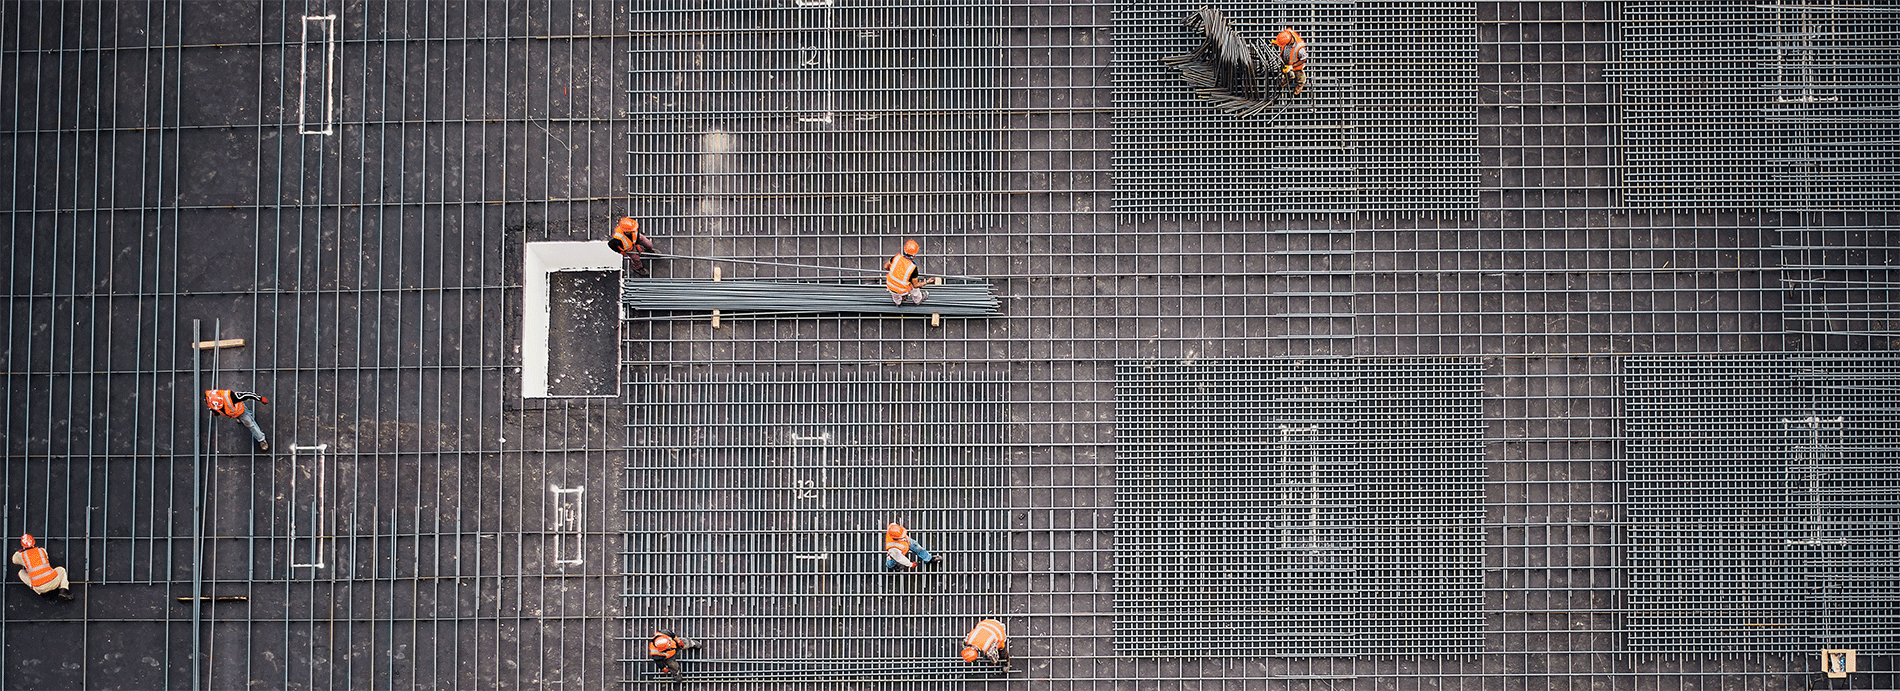
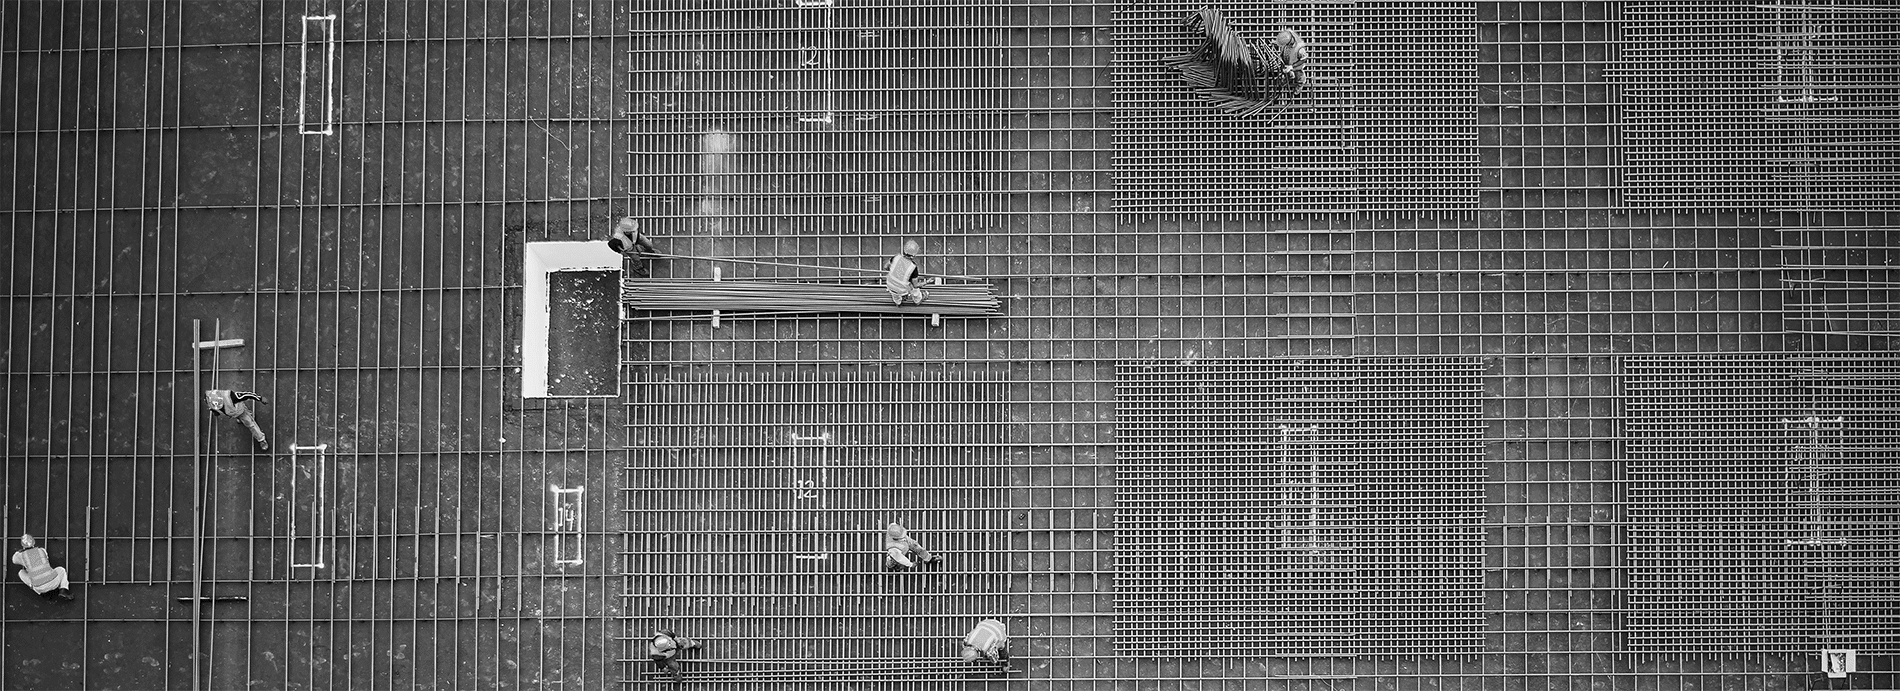
removing TODO from rico introduction blogpost change date of blogpost turn header image into b&w

diff --git a/_posts/2019-07-25-introducing-rico.md b/_posts/2019-07-25-introducing-rico.md
@@ -4,7 +4,7 @@ title:  'Introducing Rico'
 author: markus
 featuredImage: 
 excerpt: 'Introduction to Rico, the application framework.'
-permalink: '/rico/2019/07/16/introducing-rico.html'
+permalink: '/rico/2019/07/25/introducing-rico.html'
 categories: [Java, Jakarta EE, Java EE, Spring, Rico, Remoting, Monitoring, Security, Angular, WebComponents, JavaFX, Projector]
 header:
   text: Introducing <span class="my-karakun">Rico<span>
@@ -30,12 +30,10 @@ It provides modules for common use cases that extend the range of functions you 
  
 These are in regard to core functionalities:
 
-* _Data Access_ -
-* _Logging_ - 
-* _Monitoring_ -
-* _Security_ - 
-
-(**TODO:** some word to each module)
+* _Data Access_ - Rico provides helpers to enhance usage of your applications data layer. This includes using an event system for entity mutation to solve common problems in distributed systems. Since Rico builds on top of established frameworks (Spring Data or JPA) it integrates smoothly in your data layer.
+* _Logging_ - Based on SLF4J, Rico provides logging features to serve typical uses-cases including distributed logging (painless GreyLog integration). Next to this, accessing the log entries is simplified by an In-Memory pipe of recent logentries and ready-to-use widgets to visualize logs (local & remote).
+* _Monitoring_ - As one of the first frameworks, Rico implemented the [new ServerTiming standard](/java/rico/2019/01/15/rico-server-timing.html) and is prepared for distributed tracing.
+* _Security_ - Generic interface to serve typical security use-cases (e.g. login, logout, session-management, ...) with integration of KeyCloak (popular access and identity management solution) as a first implementation. All security features are automatically integrated into Rico's Remoting / HTTP layers.
 
 Providing a user interface is more or less required for almost every solution today - be it an admin UI or a UI to give users access the needed functionality. Rico also provides some modules to help in that regard.
 
@@ -55,13 +53,16 @@ This contribution to Rico is currently being finalized and will be released soon
 Creating the UI from a server side API reduces the effort for dev teams as they do not need to care about UI technology.
 
 To provide maximum flexibility, it is of course also still possible to implement interfaces provided over HTTP (SOAP, REST, GraphQL, ...) as it is the case for the frameworks build upon.
-**TODO:** clarify if Rico provides something in addition....
+  
+Rico provides a fluent client API for HTTP(S) that automatically respects the threading rules of the given UI toolkit. 
+Next to this, Rico has functionality to provide maximum convenience when handling utf-8 text, (large) binaries and serializable data.
+Thanks to the plugin functionality of the HTTP client, _security features_ or the _Client Scope_ are injected automatically in each request.
 
 In order to use these components for UIs efficiently, even when combined, [Rico](/rico) provides a __Client Scope__ module on the one hand and an __Event Bus__ module on the other hand.
 
 __Client Scope__ is for example handy in cases when a browser UI is implemented (Angular or WebComponents/Polymer) and you need to handle several browser tabs being used in one session.
 
-__Event Bus__ is used to communicate between sessions. With this module data from one client session can be published to another session, e.g. to implement a collaboration use case or a chat client.
+__Event Bus__ is used to communicate between sessions (even beyond server boundaries). With this module data from one client session can be published to another session, e.g. to implement a collaboration use case or a chat client.
 
 
 
